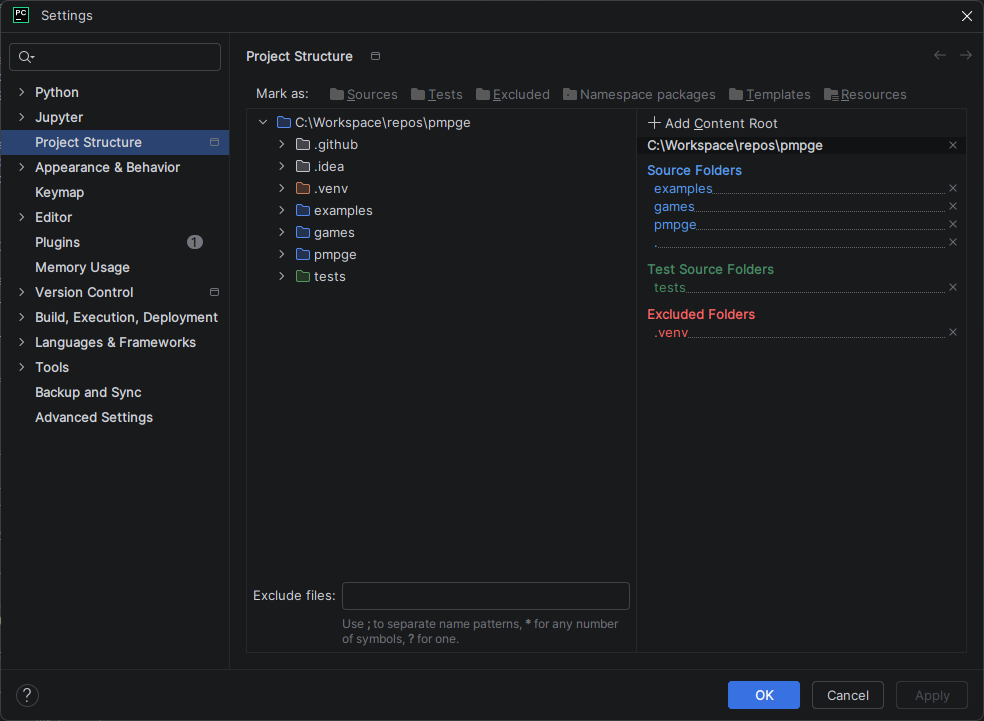
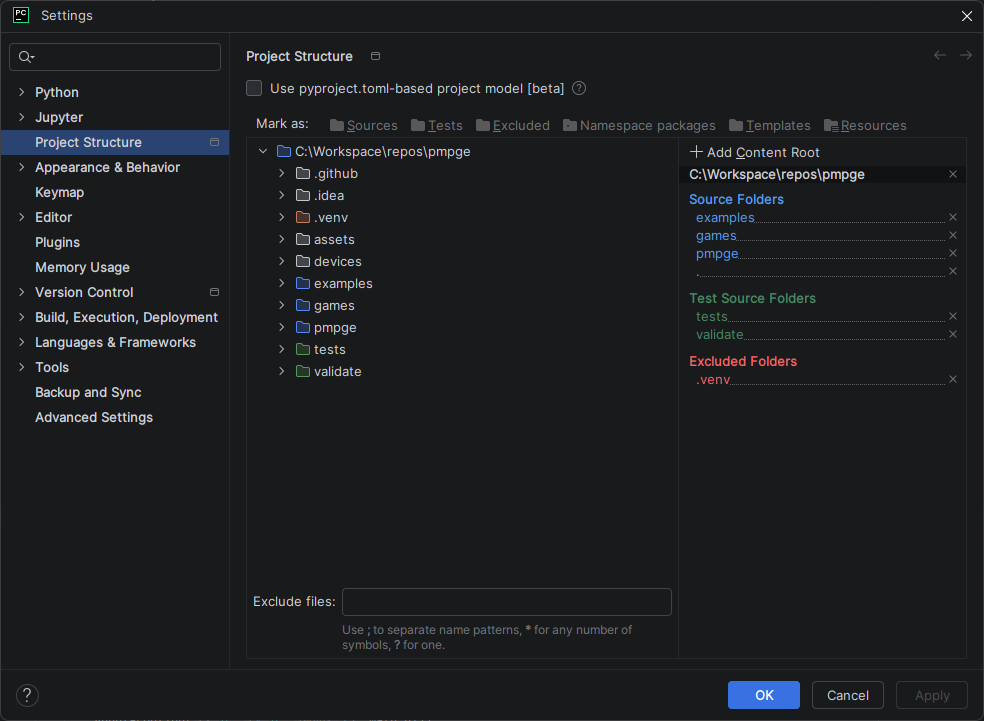
Got the validation scripts working again.

diff --git a/validate/validate_graphics.py b/validate/validate_graphics.py
@@ -1,12 +1,12 @@
-import validate_device.graphics.borders as egb
-import validate_device.graphics.multiple_sprites as ems
-import validate_device.graphics.scaling as egs
-import validate_device.graphics.single_sprite as ess
-import validate_device.graphics.sprite_hierarchy as esv
-import validate_device.graphics.sprite_movement as esm
-import validate_device.graphics.sprite_orbiting as ego
-import validate_device.graphics.sprite_visibility as esh
-import validate_device.utils as utils
+import validate.graphics.borders as egb
+import validate.graphics.multiple_sprites as ems
+import validate.graphics.scaling as egs
+import validate.graphics.single_sprite as ess
+import validate.graphics.sprite_hierarchy as esv
+import validate.graphics.sprite_movement as esm
+import validate.graphics.sprite_orbiting as ego
+import validate.graphics.sprite_visibility as esh
+import validate.utils as utils
 
 modules = [egb, egs, ess, ems, esm, esv, esh, ego]
 

diff --git a/validate/validate_all.py b/validate/validate_all.py
@@ -2,11 +2,11 @@
 # It is a convenient way to test a large subset of the functionality
 # on a device.
 #
-import validate_device.engine.game_objects_with_traits as got
-import validate_device.engine.hierarchy_with_traits as hwt
-import validate_device.engine.just_game_objects as jgo
-import validate_device.engine.trivial_game as tg
-import validate_device.utils as utils
+import validate.engine.game_objects_with_traits as got
+import validate.engine.hierarchy_with_traits as hwt
+import validate.engine.just_game_objects as jgo
+import validate.engine.trivial_game as tg
+import validate.utils as utils
 
 modules = [tg, jgo, got, hwt]
 

diff --git a/validate/validate_engine.py b/validate/validate_engine.py
@@ -1,8 +1,8 @@
-import validate_device.engine.game_objects_with_traits as got
-import validate_device.engine.hierarchy_with_traits as hwt
-import validate_device.engine.just_game_objects as jgo
-import validate_device.engine.trivial_game as tg
-import validate_device.utils as utils
+import validate.engine.game_objects_with_traits as got
+import validate.engine.hierarchy_with_traits as hwt
+import validate.engine.just_game_objects as jgo
+import validate.engine.trivial_game as tg
+import validate.utils as utils
 
 modules = [tg, jgo, got, hwt]
 

diff --git a/validate/validate_performance.py b/validate/validate_performance.py
@@ -1,8 +1,8 @@
-import validate_device.performance.baseline as baseline
-import validate_device.performance.baseline_with_graphics as with_graphics
-import validate_device.performance.baseline_with_graphics_small_display as small_display
-import validate_device.performance.huge_hierarchy as hh
-import validate_device.utils as utils
+import validate.performance.baseline as baseline
+import validate.performance.baseline_with_graphics as with_graphics
+import validate.performance.baseline_with_graphics_small_display as small_display
+import validate.performance.huge_hierarchy as hh
+import validate.utils as utils
 
 modules = [baseline, with_graphics, small_display, hh]
 

diff --git a/validate/performance/baseline.py b/validate/performance/baseline.py
@@ -1,7 +1,6 @@
-from tests.validate_device.test_data.test_data import create_test_data
-
-import validate_device.utils as utils
+import validate.utils as utils
 from pmpge.game import Game
+from validate.test_data import create_test_data
 
 
 def setup(game: Game):

diff --git a/validate/performance/baseline_with_graphics.py b/validate/performance/baseline_with_graphics.py
@@ -1,7 +1,6 @@
-from validate_device.test_data.test_data import create_test_data
-
-import validate_device.utils as utils
+import validate.utils as utils
 from pmpge.game import Game
+from validate.test_data import create_test_data
 
 
 def setup(game: Game):

diff --git a/validate/performance/baseline_with_graphics_small_display.py b/validate/performance/baseline_with_graphics_small_display.py
@@ -1,7 +1,6 @@
-from validate_device.test_data.test_data import create_test_data
-
-import validate_device.utils as utils
+import validate.utils as utils
 from pmpge.game import Game
+from validate.test_data import create_test_data
 
 SCREEN_WIDTH = 80  # Results in a border of 40 pixels left and right
 SCREEN_HEIGHT = 100  # Results in a border of 14 pixels top and bottom

diff --git a/validate/validate_controller.py b/validate/validate_controller.py
@@ -1,6 +1,5 @@
-import validate_device.controller.move_sprite as fms
-
-import validate_device.utils as utils
+import validate.controller.move_sprite as fms
+import validate.utils as utils
 
 modules = [fms]
 

diff --git a/validate/controller/move_sprite.py b/validate/controller/move_sprite.py
@@ -3,12 +3,12 @@ Creates sprite in the center of the screen and allows the controller
 to move it around. The other buttons toggle the visibility of sprites.
 """
 
-import validate_device.utils as utils
+import validate.utils as utils
 from pmpge.controller import Controller
 from pmpge.game import Game
 from pmpge.traits.controller import MoveWithController
 from pmpge.traits.position import StayInBounds
-from tests.validate_device import test_data
+from validate import test_data
 
 # The first 12 sprites represent the buttons which have their visibility
 # switched as the buttons are preseed. The 13th sprite is the one moved

diff --git a/validate/graphics/borders.py b/validate/graphics/borders.py
@@ -3,9 +3,9 @@ Creates a non-scalable game area that is small enough to require borders
 at both the top and bottom of the screen.
 """
 
-import validate_device.utils as utils
+import validate.utils as utils
 from pmpge.game import Game
-from tests.validate_device import test_data
+from validate import test_data
 
 sprite_data: list[test_data.SpriteData] = [
     test_data.SpriteData(25, 30, "alien.png"),

diff --git a/validate/graphics/multiple_sprites.py b/validate/graphics/multiple_sprites.py
@@ -2,10 +2,10 @@
 Creates many sprites and moves them around on the screen.
 This shows how well the device copes with 20 on-screen sprites.
 """
-import validate_device.utils as utils
+import validate.utils as utils
 
 from pmpge.game import Game
-from tests.validate_device import test_data
+from validate import test_data
 
 sprite_data: list[test_data.SpriteData] = [
     test_data.SpriteData(0, 0, "player.png", 5, 5),

diff --git a/validate/graphics/scaling.py b/validate/graphics/scaling.py
@@ -5,9 +5,9 @@ optimisations on image resource sharing. This is useful for visually checking
 that visibility works.
 """
 
-import validate_device.utils as utils
+import validate.utils as utils
 from pmpge.game import Game
-from tests.validate_device import test_data
+from validate import test_data
 
 sprite_data: list[test_data.SpriteData] = [
     test_data.SpriteData(15, 15, "alien.png"),